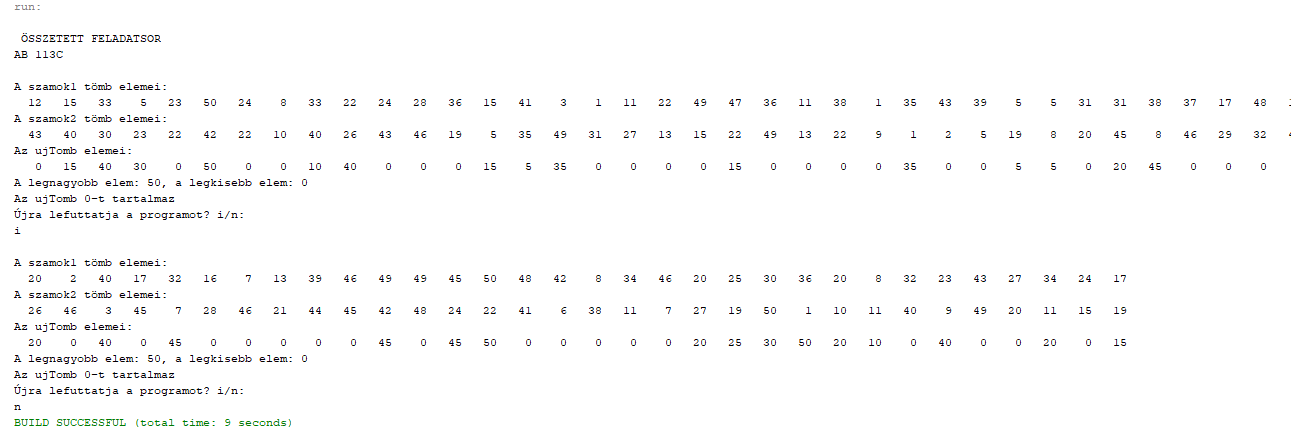
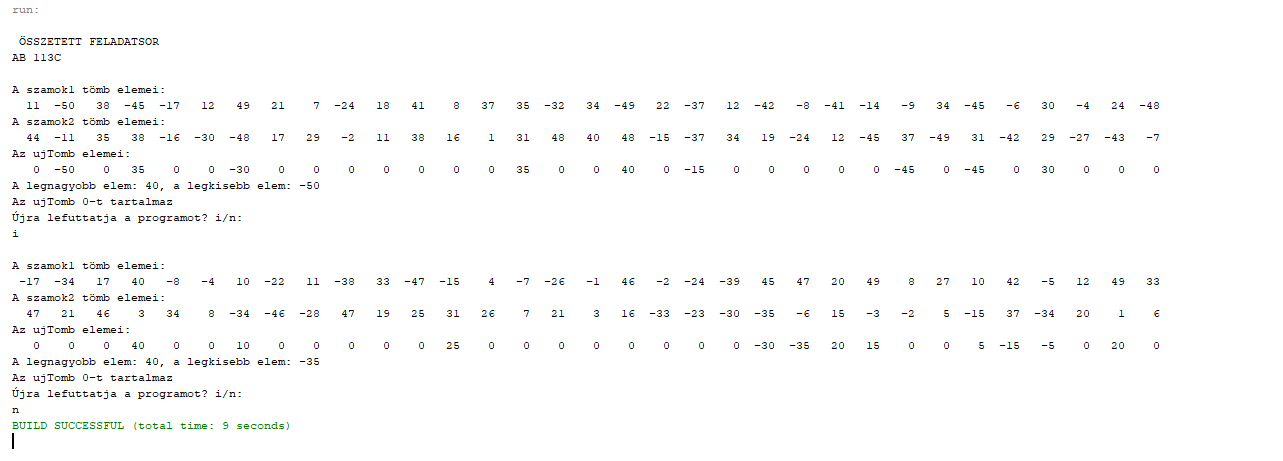
összetettfeladat végleges

diff --git a/Osszetettfeladat1203.java b/Osszetettfeladat1203.java
@@ -24,8 +24,8 @@ public class Osszetettfeladat1203 {
         int szamok2[] = new int[darabszam];
 
         for (int i = 0; i < darabszam; i++) {
-            szamok1[i] = (int) (Math.random() * -50) + 50;
-            szamok2[i] = (int) (Math.random() * -50) + 50;
+            szamok1[i] = (int) (Math.random() * 100) - 50;
+            szamok2[i] = (int) (Math.random() * 100) - 50;
         }
         System.out.println("\nA szamok1 tömb elemei: ");
         for (int i = 0; i < szamok1.length; i++) {
